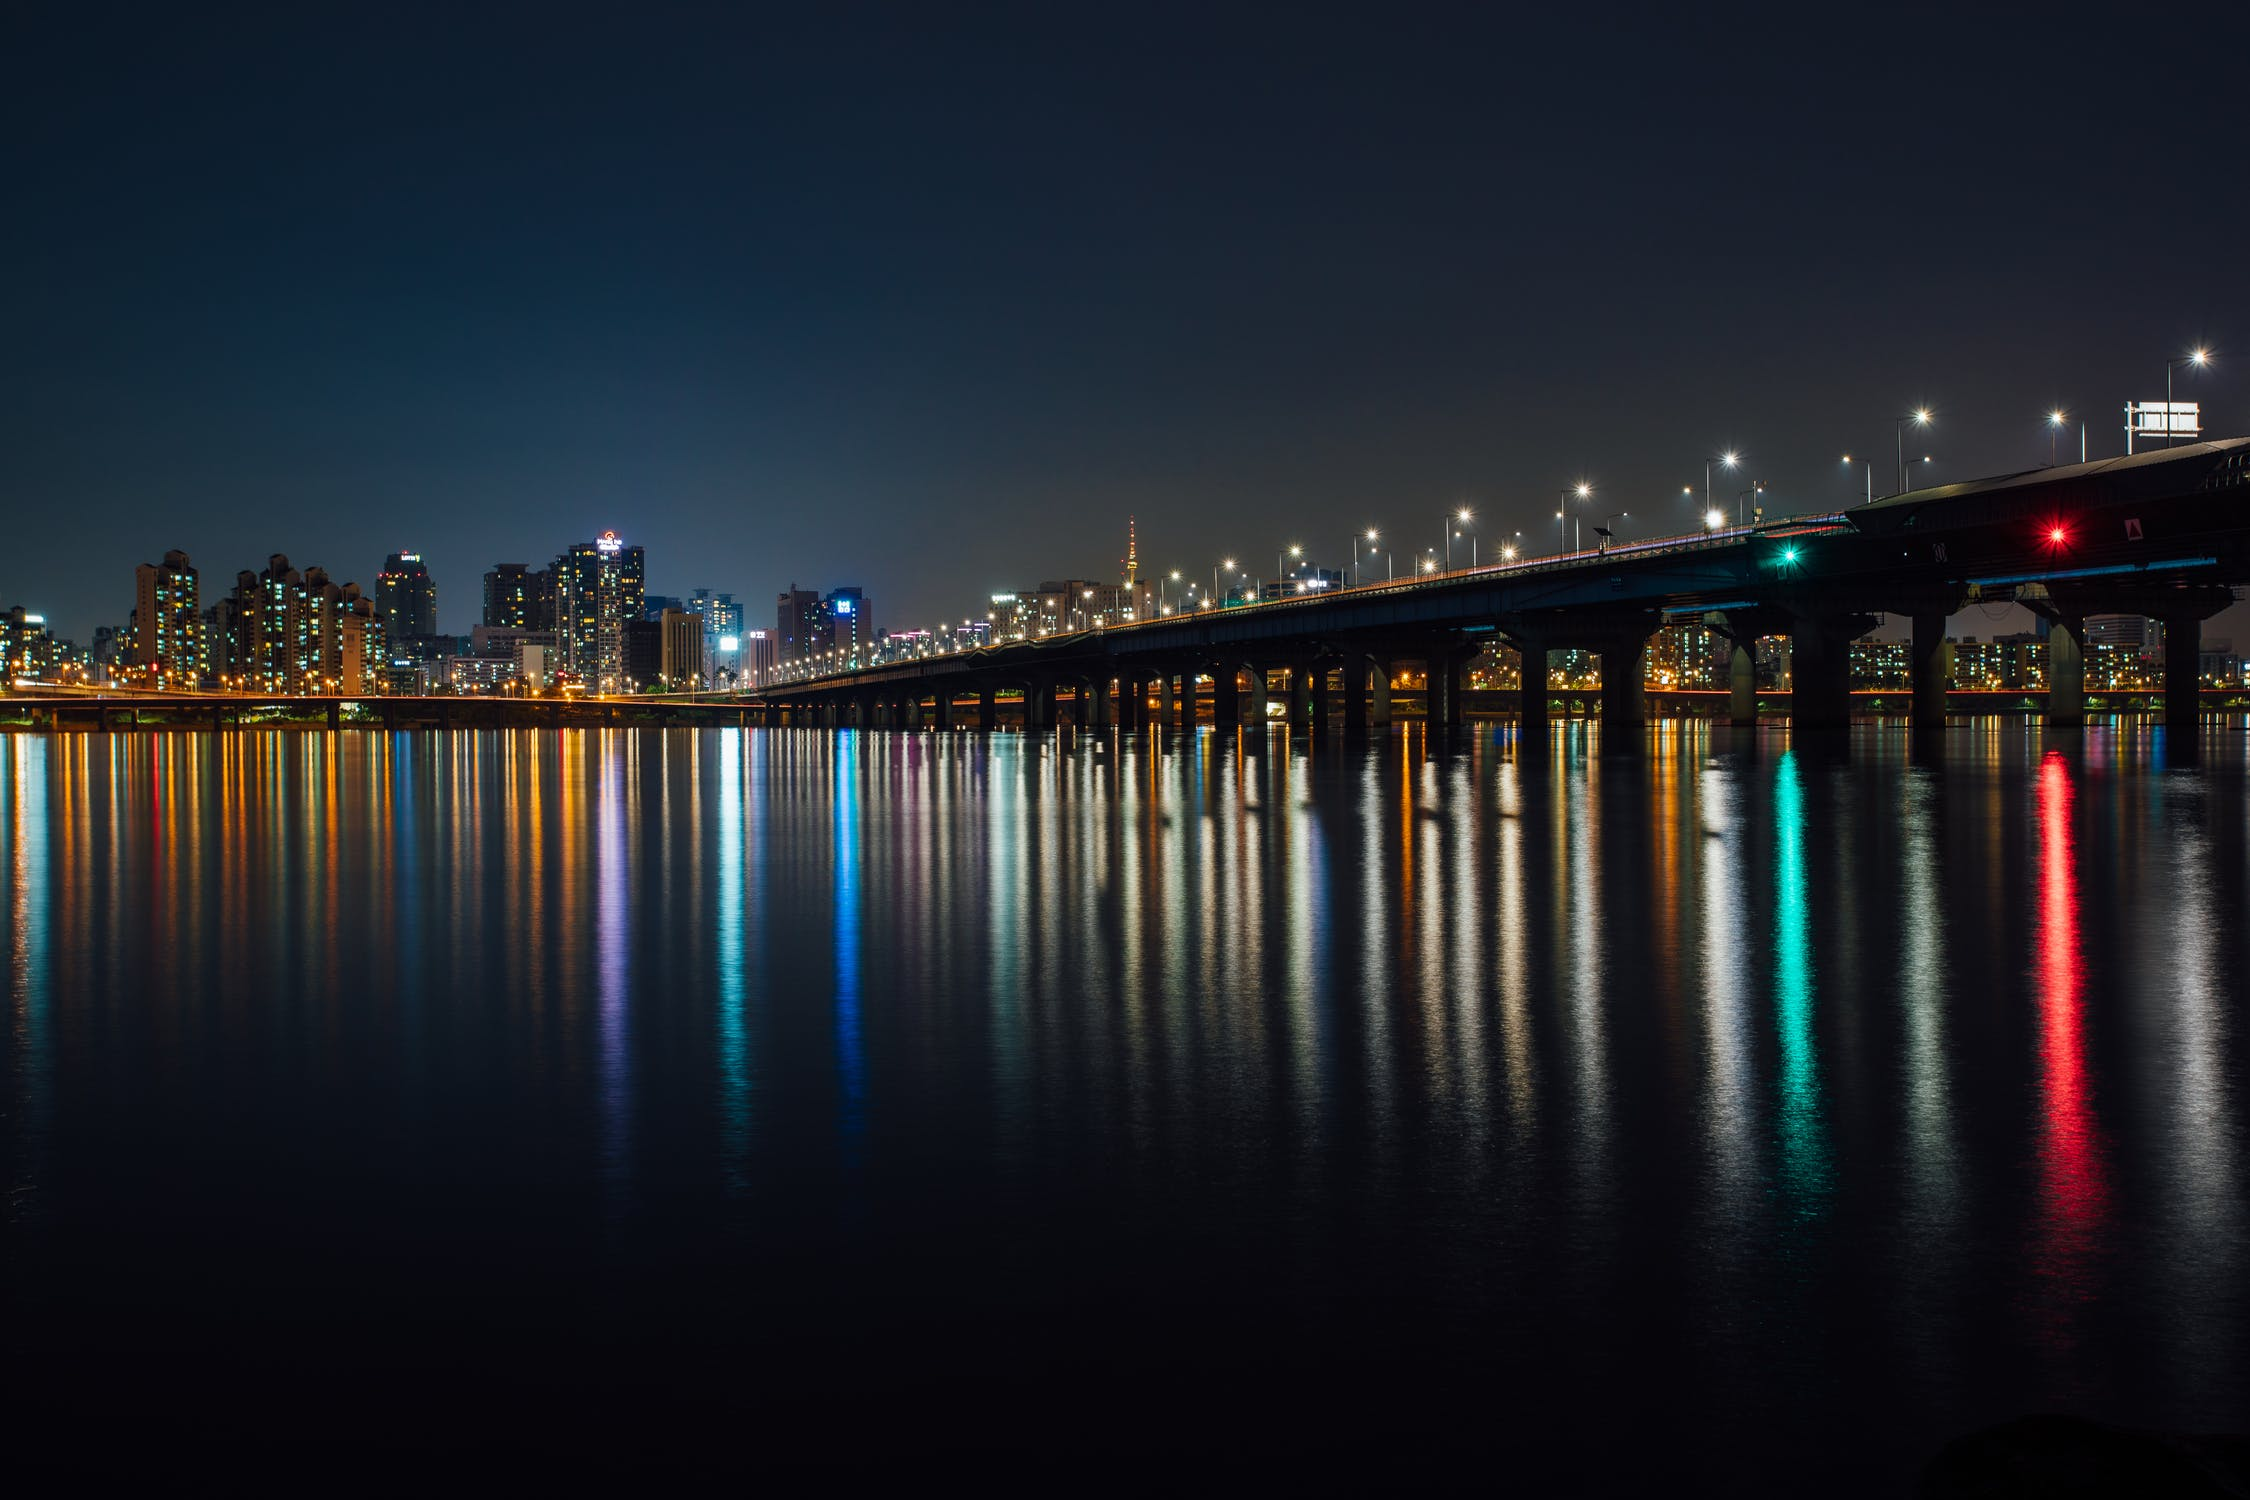
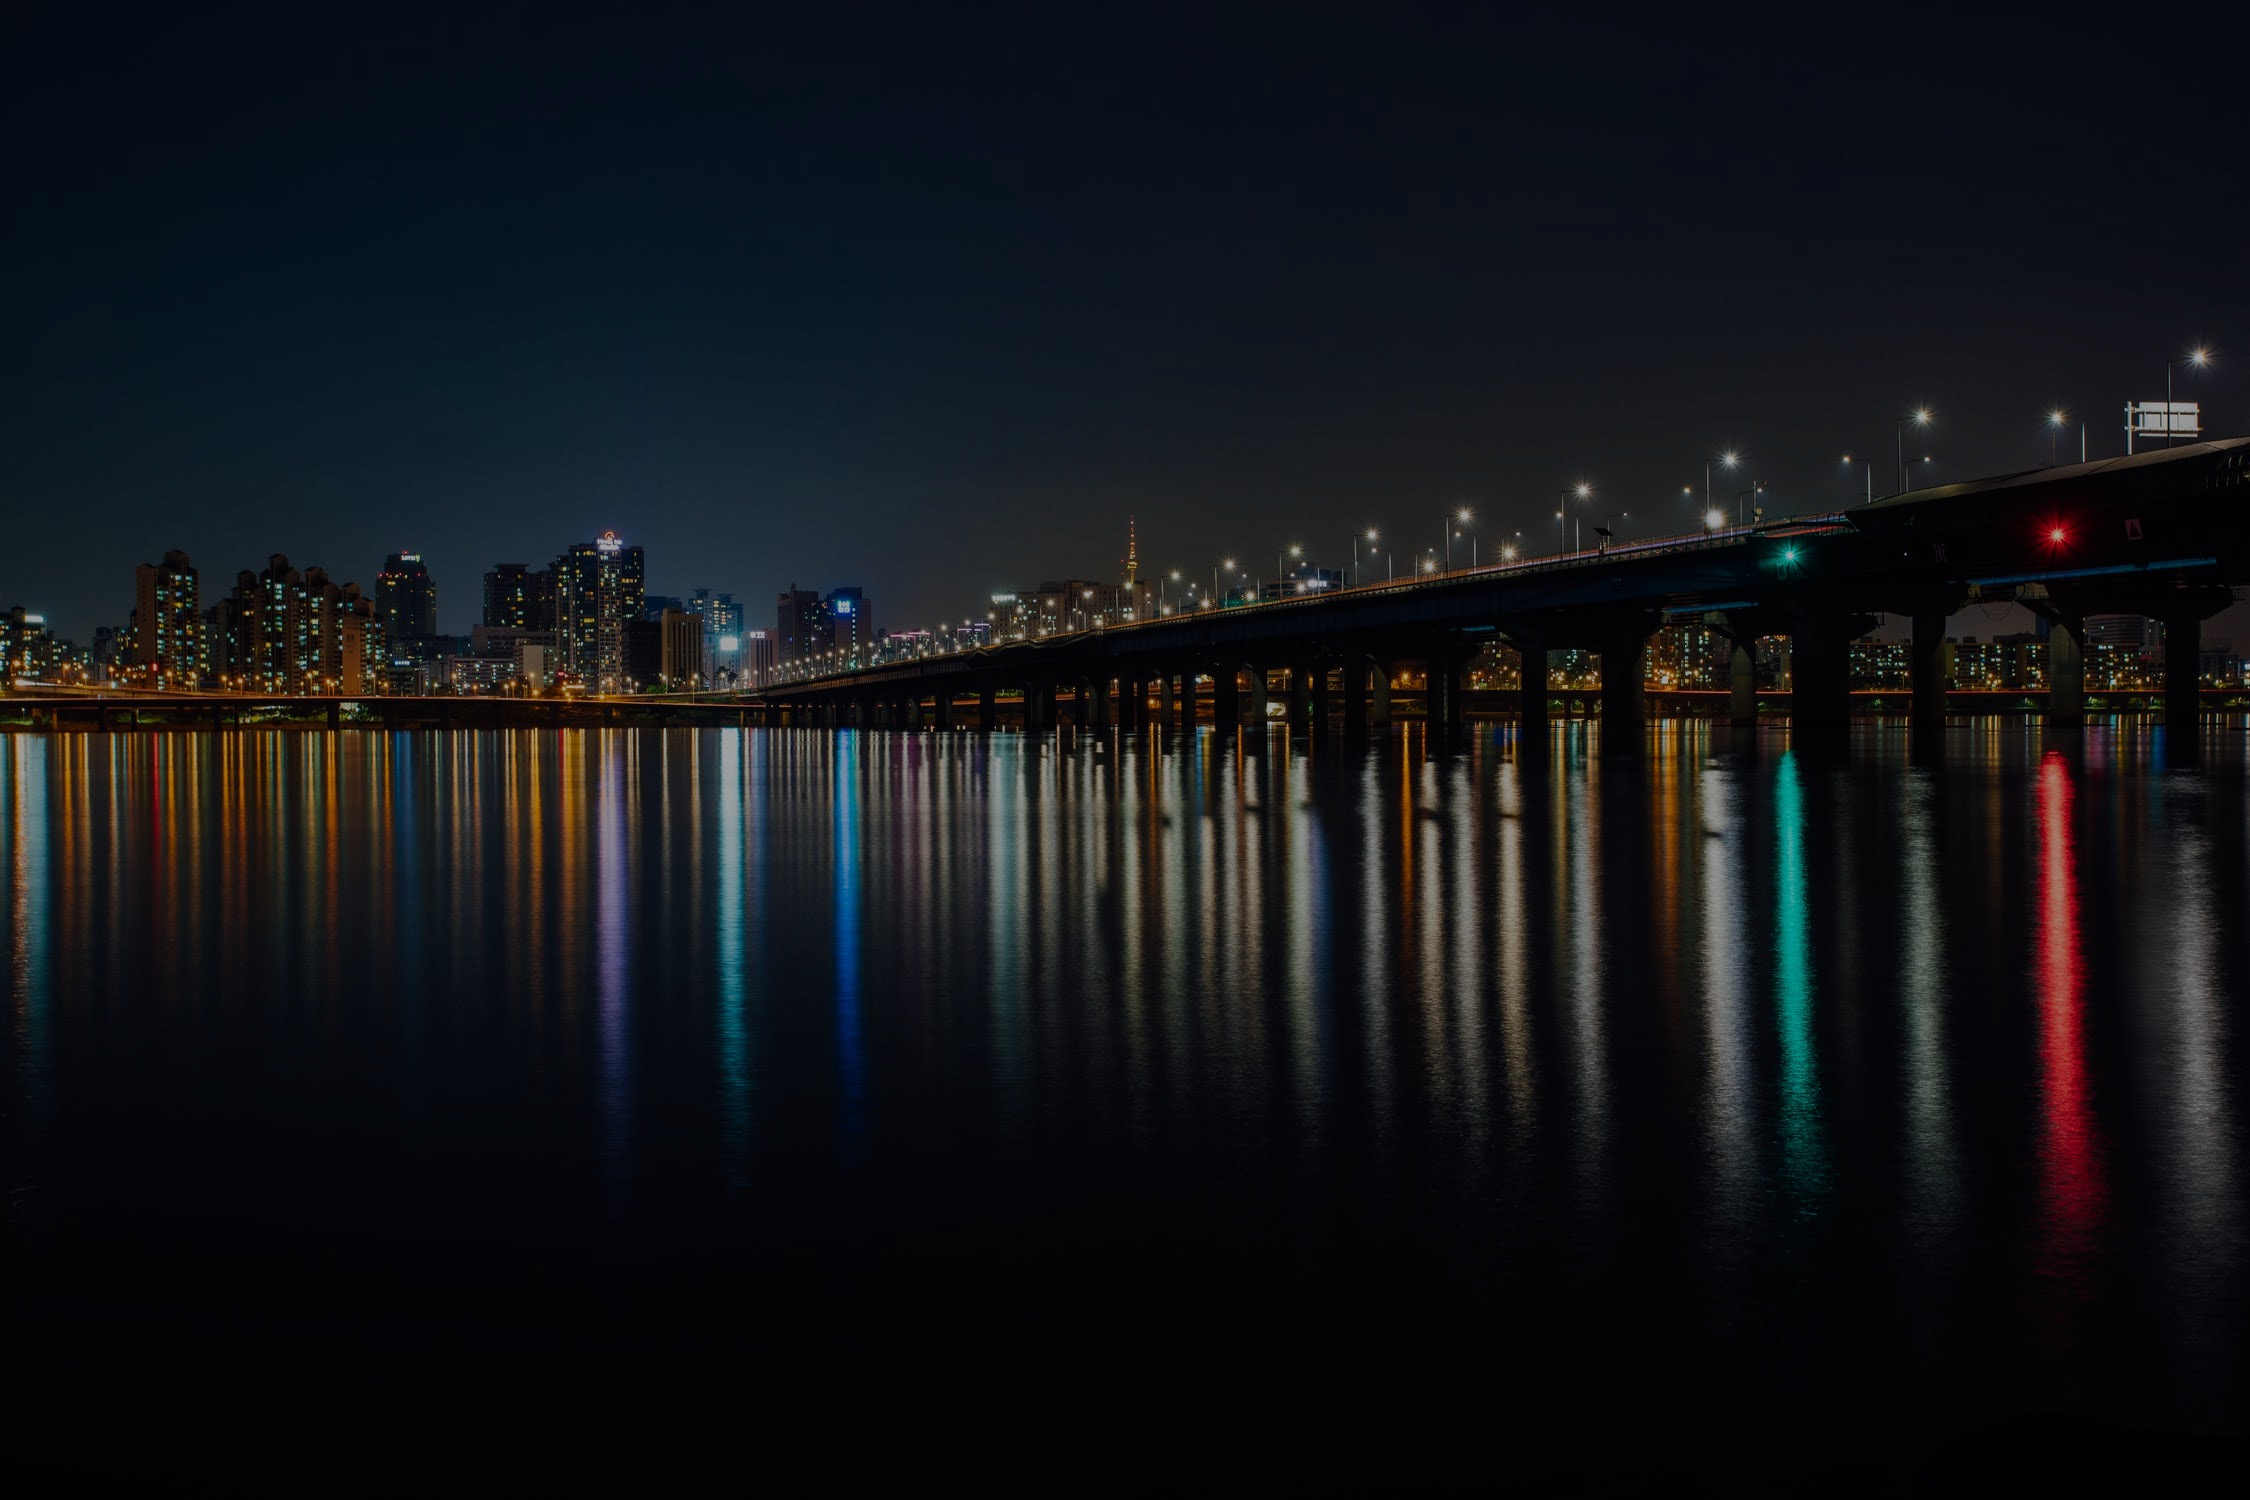
백그라운드 수정

Changed region(s): [[0.0, 0.1227, 1.0, 0.828]]

diff --git a/index.html b/index.html
@@ -12,7 +12,6 @@
   <body>
     <div class="slider">
       <div class="bg1 bg">
-        <div class="cover"></div>
         <div class="contents">
           <p class="city">SEOUL</p>
           <div class="seoul_tempt tempt"></div>
@@ -22,7 +21,6 @@
         </div>
       </div>
       <div class="bg2 bg">
-        <div class="cover"></div>
         <div class="contents">
           <p class="city">BUSAN</p>
           <div class="busan_tempt tempt"></div>
@@ -32,7 +30,6 @@
         </div>
       </div>
       <div class="bg3 bg">
-        <div class="cover"></div>
         <div class="contents">
           <p class="city">JEJU</p>
           <div class="jeju_tempt tempt"></div>

diff --git a/style.css b/style.css
@@ -9,14 +9,6 @@ body {
   height: 100vh;
 }
 
-.cover {
-  width: 100vw;
-  height: 100vh;
-  background-image: url('./img/16.png');
-  position: absolute;
-  z-index: 1;
-}
-
 .bg1 {
   width: 100vw;
   height: 100vh;
@@ -50,7 +42,7 @@ body {
   top: 50%;
   left: 50%;
   transform: translate(-50%, -50%);
-  z-index: 2;
+  /* z-index: 2; */
 }
 
 .city {
